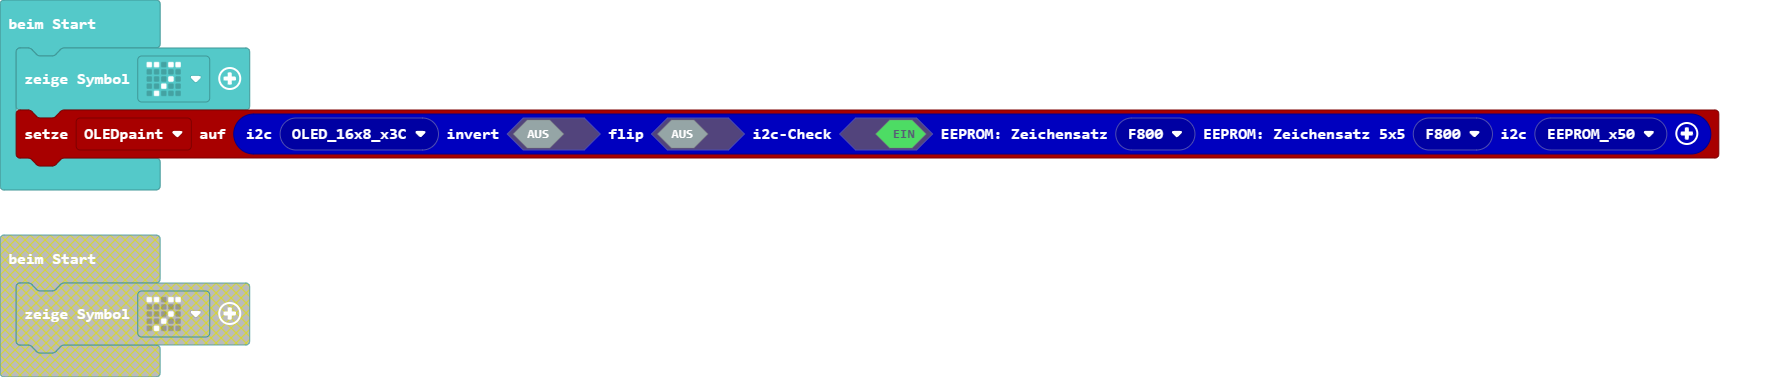
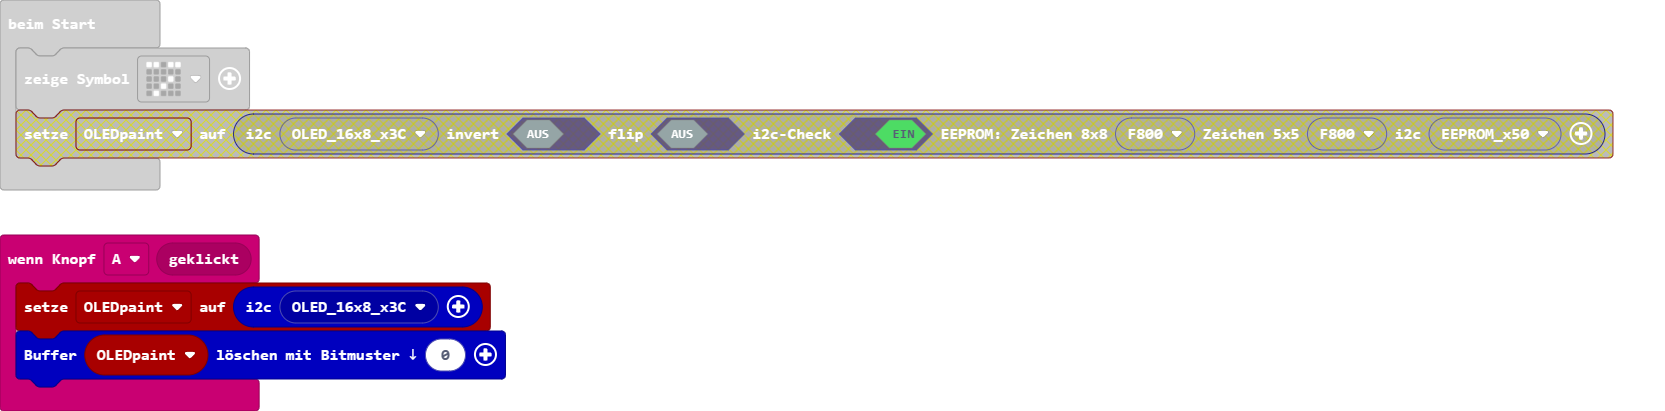
Aktualisiere main.blocks, main.ts, oledpaint.ts, pxt-OLEDpaint.ts

Changed region(s): [[0.0, 0.0, 0.9682, 0.5252], [0.0, 0.5544, 0.3123, 1.0]]

diff --git a/oledpaint.ts b/oledpaint.ts
@@ -1,7 +1,11 @@
 
 namespace oledssd1315
 /*
+Weiterentwicklung der Idee von M.Klein:
+    https://github.com/MKleinSB/pxt-OLEDpaint
+    "pxt-oledpaint": "github:MKleinSB/pxt-OLEDpaint#v1.2.1",
 
+neu programmiert von Lutz Elßner im November 2023
 */ {
 
     //% group="OLED Display 0.96" subcategory=zeichnen
@@ -29,22 +33,29 @@ namespace oledssd1315
 
     export class oledpaint extends oledclass {
         private readonly qOffset = 5 // Anzahl der Bytes zur Cursor Positionierung vor den Daten
-        private readonly qScreen: Buffer[] // Array von 8 Buffern je (qOffset + 128) Byte
+        private readonly qBuffer: Buffer[] // Array von 8 Buffern je (qOffset + 128) Byte
 
         constructor(pADDR: number, pInvert: boolean, pFlip: boolean, ck: boolean,
             pEEPROM_Startadresse: number, pEEPROM_Startadresse_5x5: number, pEEPROM_i2cADDR: number) {
 
             super(pADDR, pInvert, pFlip, ck, pEEPROM_Startadresse, pEEPROM_i2cADDR)
 
-            this.qScreen = [
+            this.qBuffer = [
                 Buffer.create(this.qOffset + 128), Buffer.create(this.qOffset + 128),
                 Buffer.create(this.qOffset + 128), Buffer.create(this.qOffset + 128),
                 Buffer.create(this.qOffset + 128), Buffer.create(this.qOffset + 128),
                 Buffer.create(this.qOffset + 128), Buffer.create(this.qOffset + 128)
             ]
         }
+
+        //% group="OLED Display 0.96" subcategory=zeichnen
+        //% block="Buffer %OLEDpaint löschen || mit Bitmuster ↓ %byte" weight=2
+        //% byte.min=0 byte.max=255 byte.defl=0
+        clearBuffer(byte?: number) {
+            for (let i = 0; i < this.qBuffer.length; i++)
+                this.qBuffer.get(i).fill(byte & 0xFF)
+        }
+
     }
-
-
 
 }

diff --git a/main.ts b/main.ts
@@ -1,2 +1,6 @@
+input.onButtonEvent(Button.A, input.buttonEventClick(), function () {
+    OLEDpaint = oledssd1315.new_oledpaint(oledssd1315.oledssd1315_eADDR(oledssd1315.eADDR.OLED_16x8_x3C))
+    OLEDpaint.clearBuffer(0)
+})
+let OLEDpaint: oledssd1315.oledpaint = null
 basic.showIcon(IconNames.Meh)
-let OLEDpaint = oledssd1315.new_oledpaint(oledssd1315.oledssd1315_eADDR(oledssd1315.eADDR.OLED_16x8_x3C), false, false, true, oledssd1315.oledssd1315_eEEPROM_Startadresse(oledssd1315.eEEPROM_Startadresse.F800), oledssd1315.oledssd1315_eEEPROM_Startadresse(oledssd1315.eEEPROM_Startadresse.F800), oledssd1315.oledssd1315_eADDR_EEPROM(oledssd1315.eADDR_EEPROM.EEPROM_x50))

diff --git a/pxt-OLEDpaint.ts b/pxt-OLEDpaint.ts
@@ -169,9 +169,9 @@ namespace kitronik_VIEW128x64
 
     //Screen buffers for sending data to the display
     const off = 5
-    let qScreen: Buffer[] = [Buffer.create(off + 128), Buffer.create(off + 128), Buffer.create(off + 128), Buffer.create(off + 128),
+    /* let qScreen: Buffer[] = [Buffer.create(off + 128), Buffer.create(off + 128), Buffer.create(off + 128), Buffer.create(off + 128),
     Buffer.create(off + 128), Buffer.create(off + 128)]
-
+ */
     let screenBuf = pins.createBuffer(240); //1025
     let ackBuf = pins.createBuffer(2);
     let writeOneByteBuf = pins.createBuffer(2);
